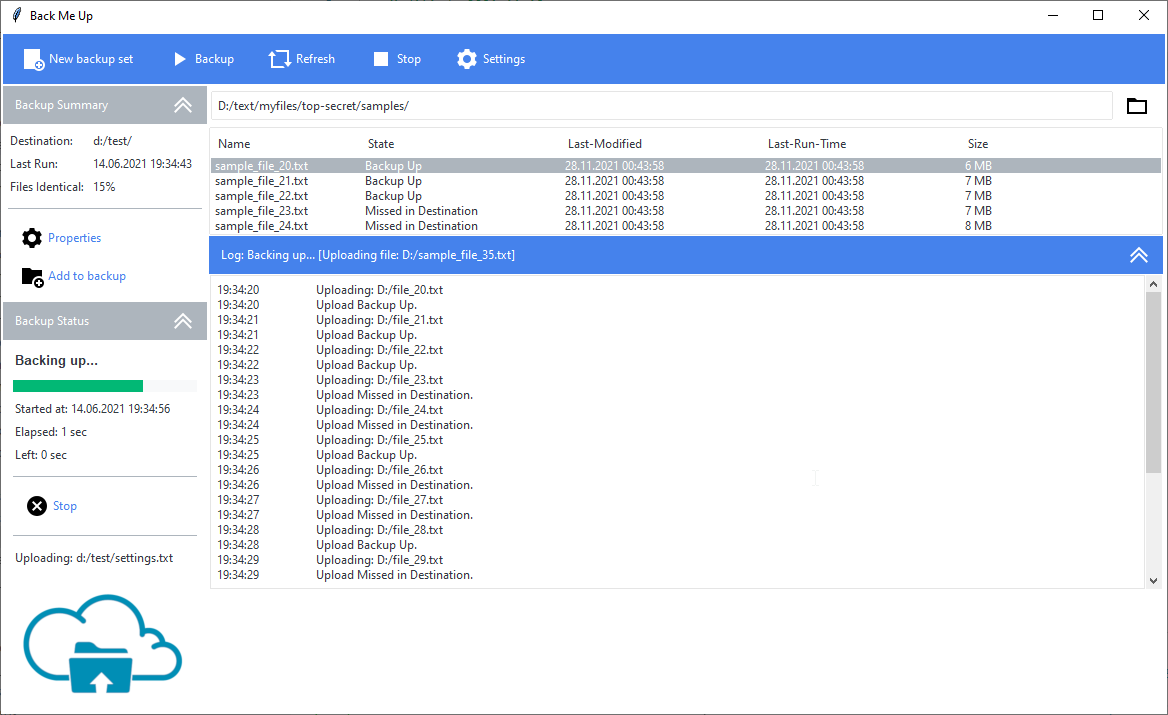
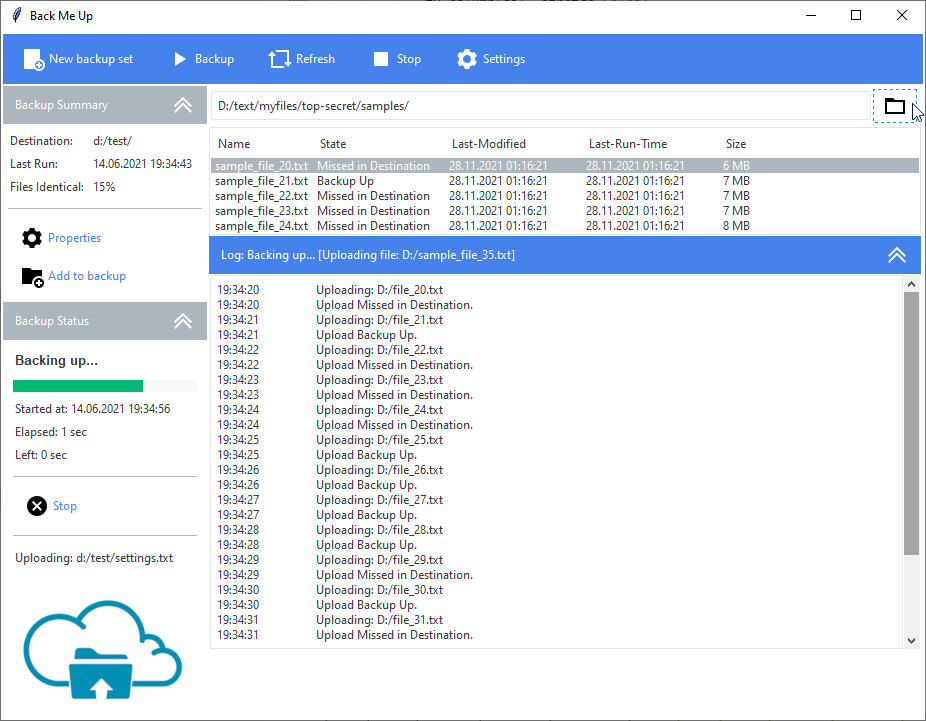
update backmeup gallery script

diff --git a/gallery/back_me_up.py b/gallery/back_me_up.py
@@ -291,7 +291,7 @@ class BackMeUp(ttk.Frame):
         output_container = ttk.Frame(scroll_cf, padding=1)
         _value = 'Log: Backing up... [Uploading file: D:/sample_file_35.txt]'
         self.setvar('scroll-message', _value)
-        st = ScrolledText(output_container, height=20)
+        st = ScrolledText(output_container)
         st.pack(fill=tk.BOTH, expand=tk.YES)
         scroll_cf.add(output_container, textvariable='scroll-message')
 
